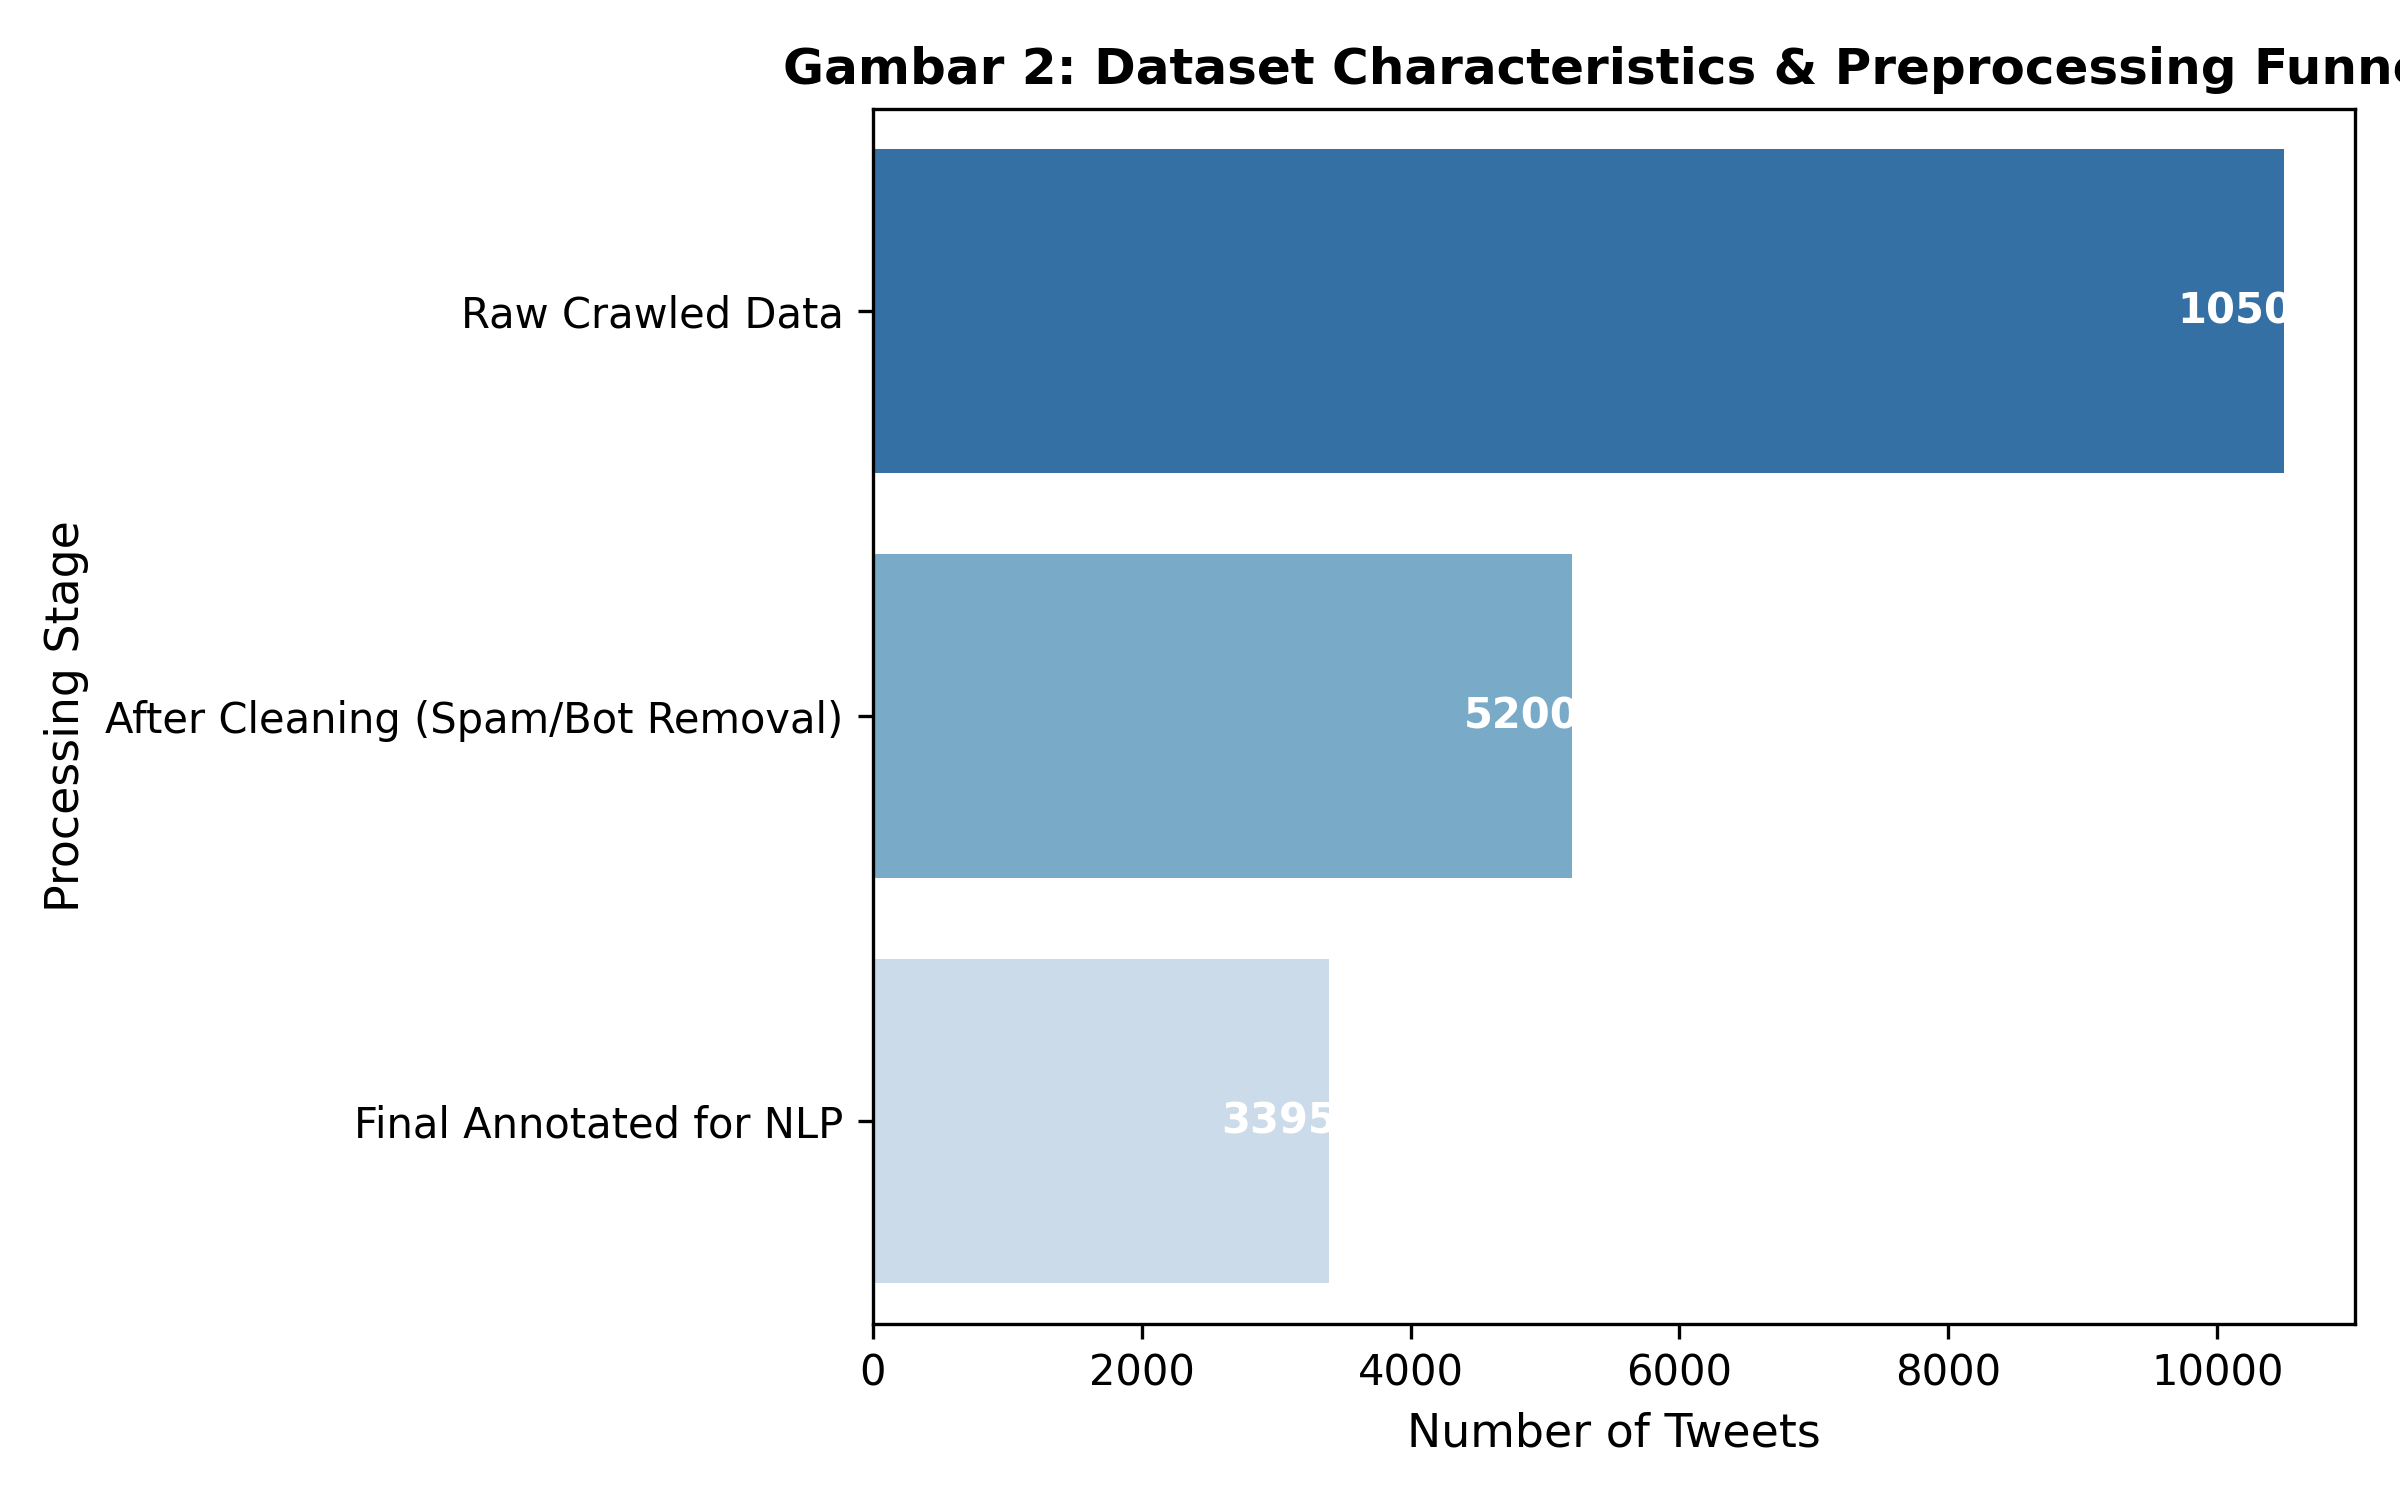
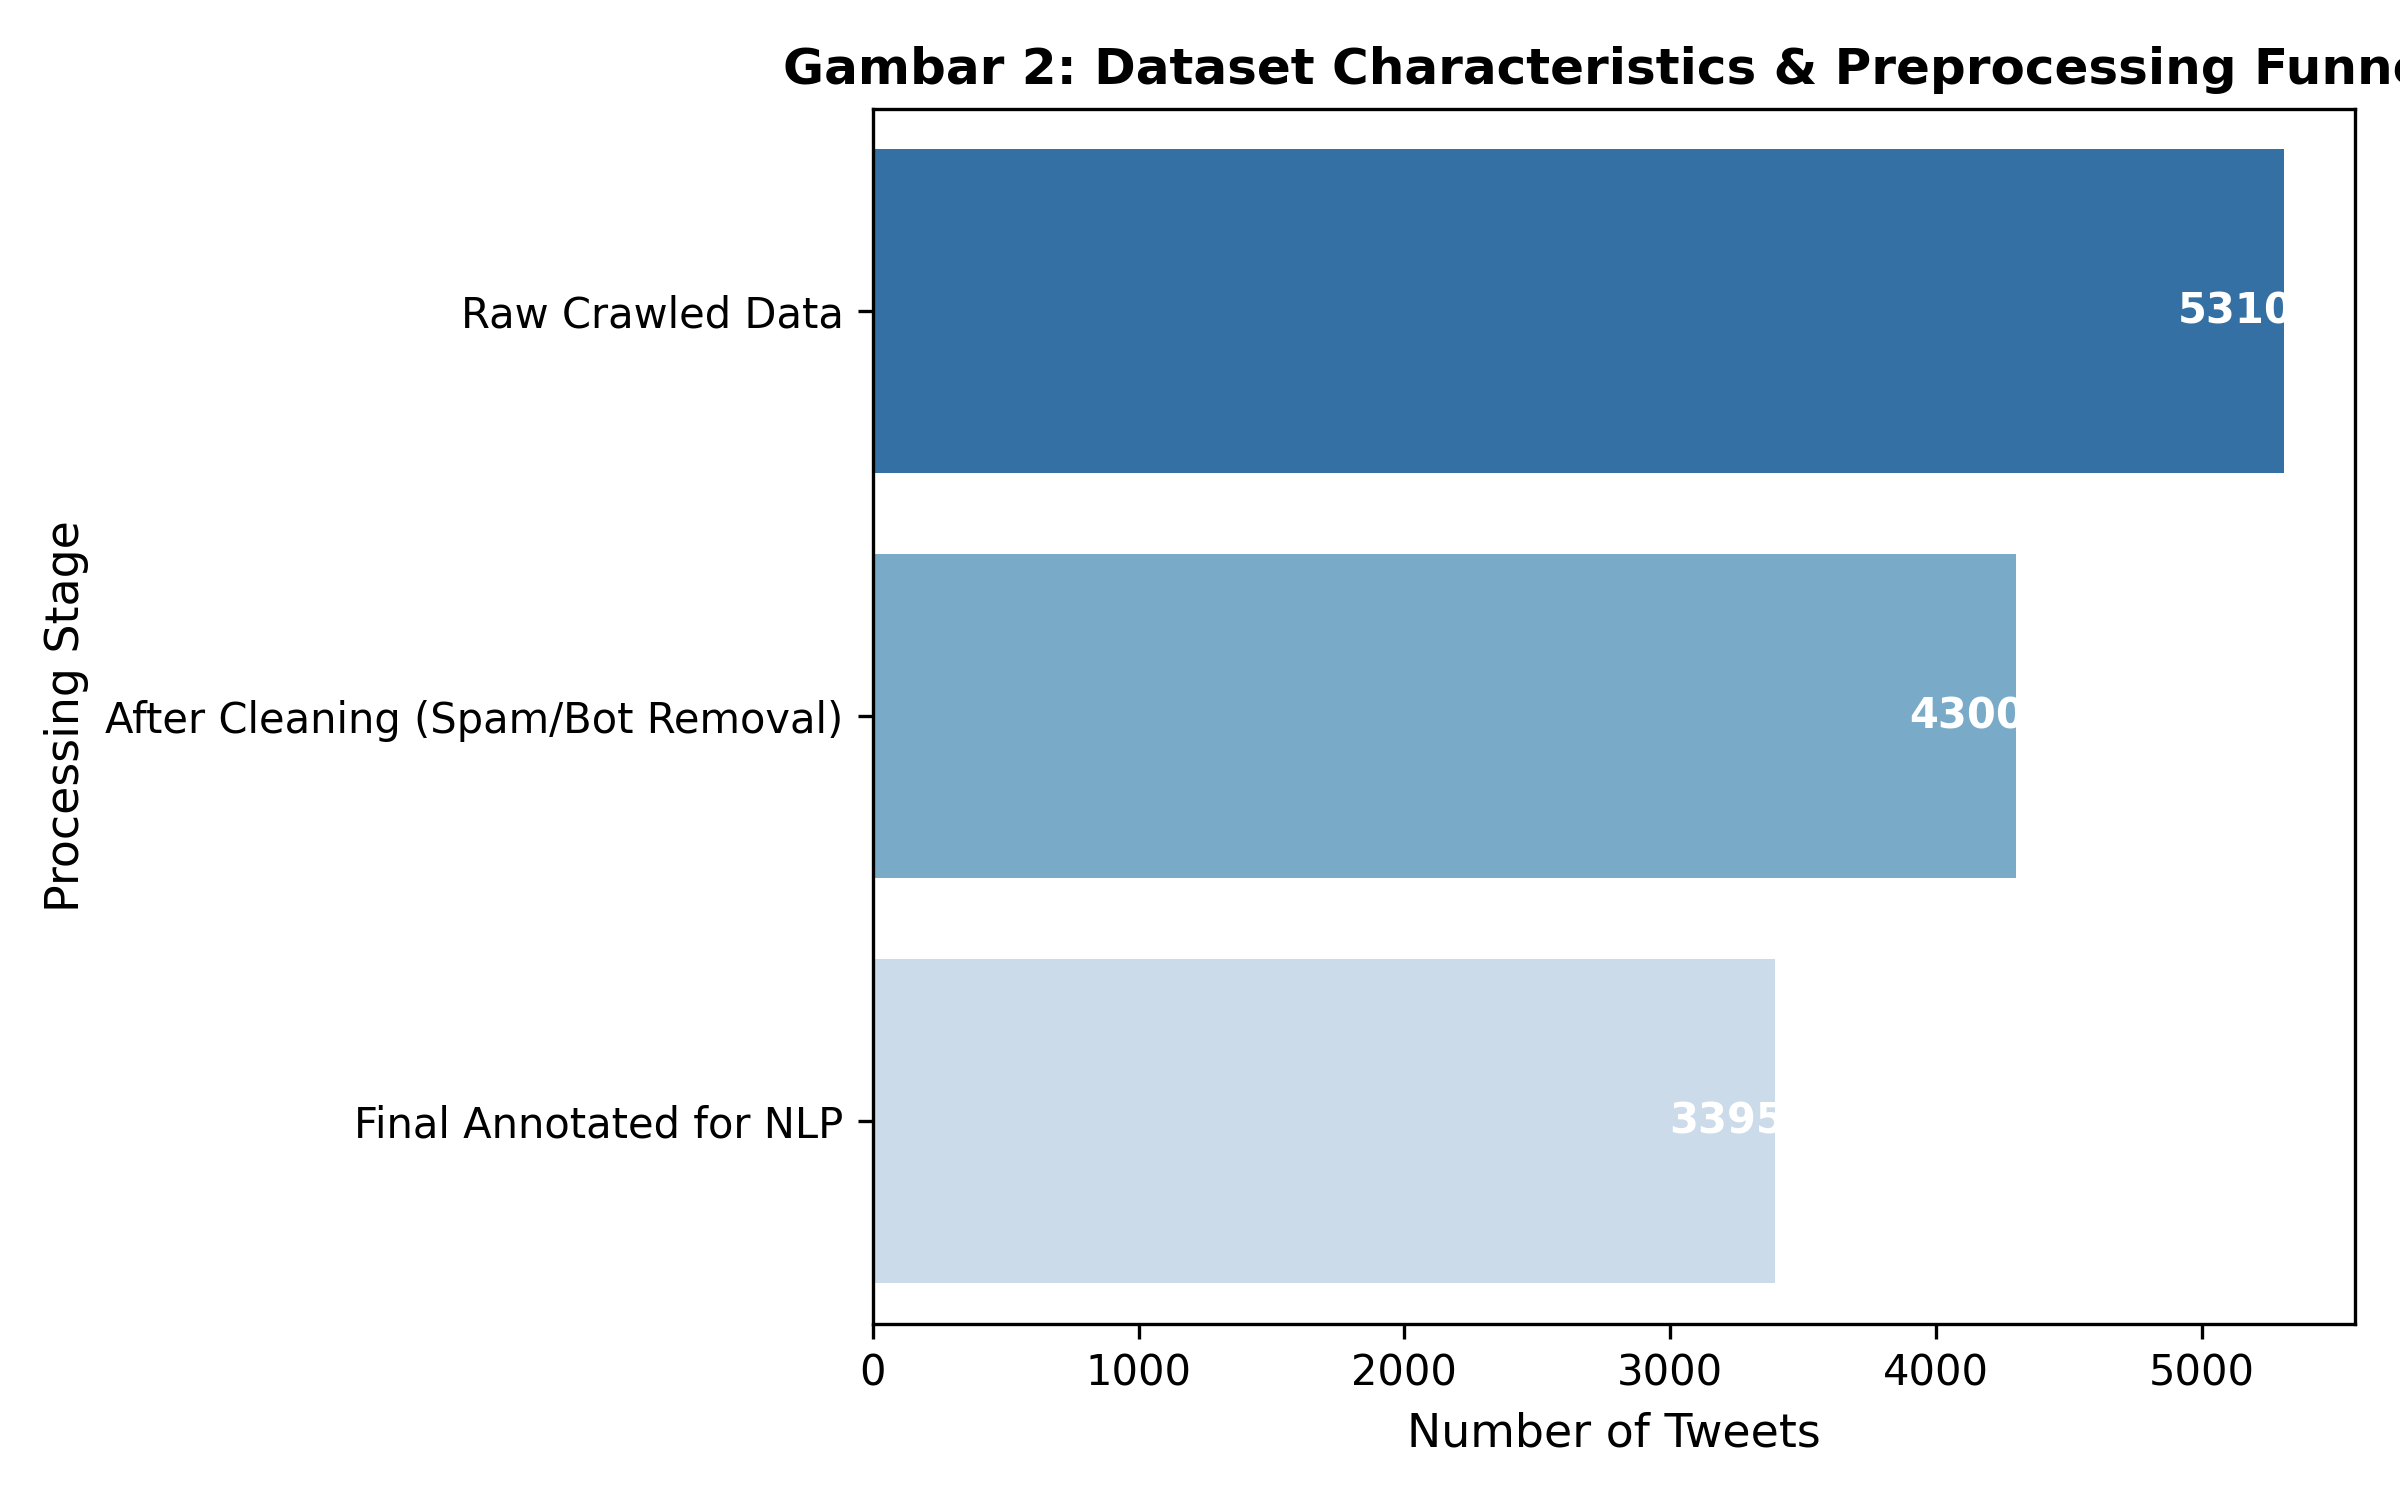
fix: Update raw dataset count to 5310 in Gambar 2

diff --git a/scripts/plot_dataset.py b/scripts/plot_dataset.py
@@ -3,19 +3,19 @@ import seaborn as sns
 import pandas as pd
 import numpy as np
 
-# Simulate Dataset Characteristics based on the thesis numbers
+# Updated Dataset Characteristics based on the thesis numbers (Raw = 5310)
 labels = ['Raw Crawled Data', 'After Cleaning (Spam/Bot Removal)', 'Final Annotated for NLP']
-counts = [10500, 5200, 3395]
+counts = [5310, 4300, 3395]
 
 plt.figure(figsize=(8, 5))
-sns.barplot(x=counts, y=labels, palette="Blues_r")
+sns.barplot(x=counts, y=labels, hue=labels, palette="Blues_r", legend=False)
 plt.title("Gambar 2: Dataset Characteristics & Preprocessing Funnel", fontsize=12, fontweight='bold')
 plt.xlabel("Number of Tweets", fontsize=11)
 plt.ylabel("Processing Stage", fontsize=11)
 
 # Add text labels on bars
 for index, value in enumerate(counts):
-    plt.text(value - 800, index, str(value), color='white', fontweight='bold', va='center')
+    plt.text(value - 400, index, str(value), color='white', fontweight='bold', va='center')
 
 plt.tight_layout()
 plt.savefig("results/2_dataset_characteristics.png", dpi=300)
